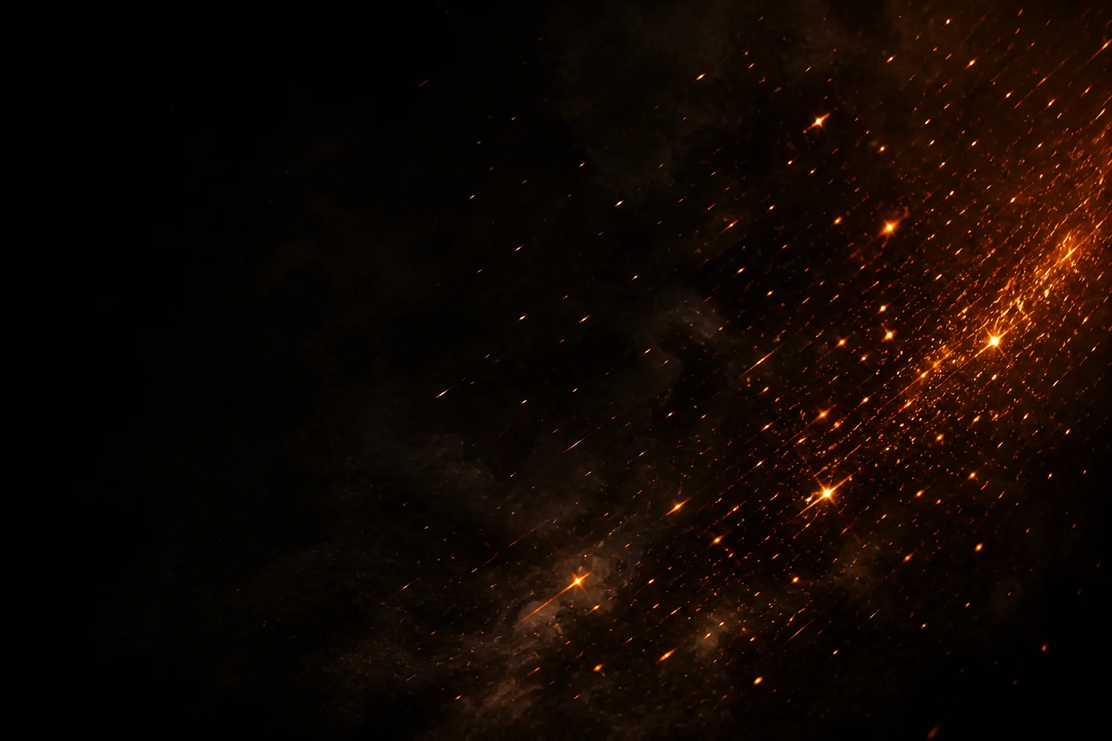
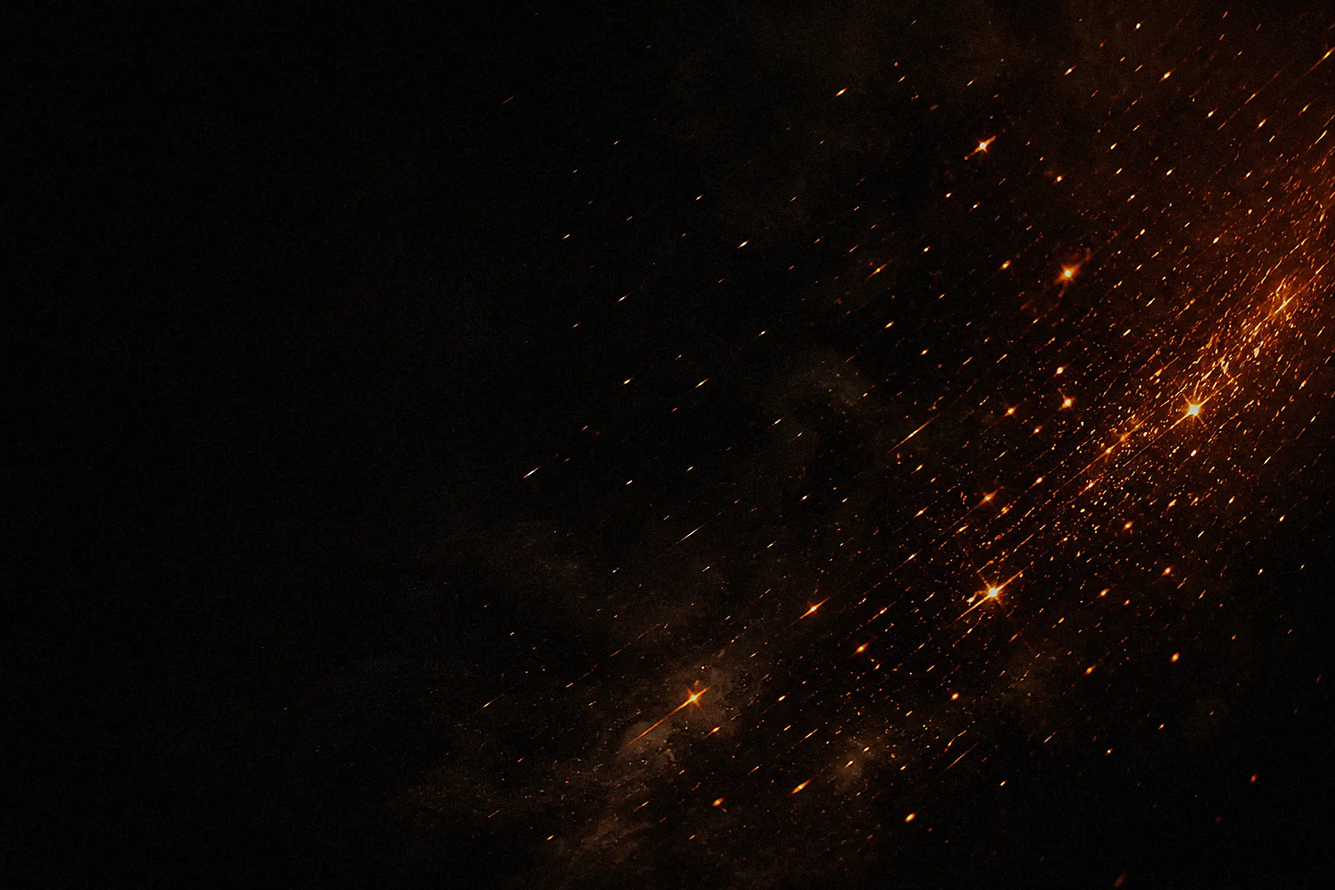
Fix hero key art: sharper and calmer
Source art is only 1536px, so upscale with unsharp mask and fine grain
(masks softness, adds film texture), darken one stop and extend the text
scrim across the full width so the art recedes behind the copy. Ship a
separate 1280px mobile variant with media-scoped preloads.

diff --git a/th/index.html b/th/index.html
@@ -55,7 +55,8 @@
 <link rel="alternate" hreflang="he" href="https://sparkfallgames.com/he/">
 <link rel="alternate" hreflang="x-default" href="https://sparkfallgames.com/">
 <script type="application/ld+json">{"@context": "https://schema.org", "@type": "Organization", "name": "Sparkfall Games", "url": "https://sparkfallgames.com", "email": "support@sparkfallgames.com", "description": "Sparkfall Games คือสตูดิโออินดี้คนเดียวที่สร้างเกมสนุก ๆ และเครื่องมือ iOS ที่ซื่อสัตย์และเป็นส่วนตัว ไม่มีบัญชี ไม่มีเซิร์ฟเวอร์ ไม่มีการติดตาม"}</script>
-<link rel="preload" as="image" href="/assets/img/keyart-dark.webp" fetchpriority="high">
+<link rel="preload" as="image" href="/assets/img/keyart-dark.webp" media="(min-width:701px)" fetchpriority="high">
+<link rel="preload" as="image" href="/assets/img/keyart-dark-m.webp" media="(max-width:700px)" fetchpriority="high">
 <link rel="stylesheet" href="/assets/site.css">
 <script defer src="/assets/site.js"></script>
 </head>

diff --git a/hi/index.html b/hi/index.html
@@ -55,7 +55,8 @@
 <link rel="alternate" hreflang="he" href="https://sparkfallgames.com/he/">
 <link rel="alternate" hreflang="x-default" href="https://sparkfallgames.com/">
 <script type="application/ld+json">{"@context": "https://schema.org", "@type": "Organization", "name": "Sparkfall Games", "url": "https://sparkfallgames.com", "email": "support@sparkfallgames.com", "description": "Sparkfall Games एक व्यक्ति का इंडी स्टूडियो है जो मज़ेदार गेम्स और ईमानदार, निजी iOS टूल बनाता है। कोई खाता नहीं, कोई सर्वर नहीं, कोई ट्रैकिंग नहीं।"}</script>
-<link rel="preload" as="image" href="/assets/img/keyart-dark.webp" fetchpriority="high">
+<link rel="preload" as="image" href="/assets/img/keyart-dark.webp" media="(min-width:701px)" fetchpriority="high">
+<link rel="preload" as="image" href="/assets/img/keyart-dark-m.webp" media="(max-width:700px)" fetchpriority="high">
 <link rel="stylesheet" href="/assets/site.css">
 <script defer src="/assets/site.js"></script>
 </head>

diff --git a/el/index.html b/el/index.html
@@ -55,7 +55,8 @@
 <link rel="alternate" hreflang="he" href="https://sparkfallgames.com/he/">
 <link rel="alternate" hreflang="x-default" href="https://sparkfallgames.com/">
 <script type="application/ld+json">{"@context": "https://schema.org", "@type": "Organization", "name": "Sparkfall Games", "url": "https://sparkfallgames.com", "email": "support@sparkfallgames.com", "description": "Η Sparkfall Games είναι ένα indie στούντιο ενός ατόμου που φτιάχνει παιχνιδιάρικα παιχνίδια και έντιμα, ιδιωτικά εργαλεία iOS. Χωρίς λογαριασμούς, χωρίς διακομιστές, χωρίς παρακολούθηση."}</script>
-<link rel="preload" as="image" href="/assets/img/keyart-dark.webp" fetchpriority="high">
+<link rel="preload" as="image" href="/assets/img/keyart-dark.webp" media="(min-width:701px)" fetchpriority="high">
+<link rel="preload" as="image" href="/assets/img/keyart-dark-m.webp" media="(max-width:700px)" fetchpriority="high">
 <link rel="stylesheet" href="/assets/site.css">
 <script defer src="/assets/site.js"></script>
 </head>

diff --git a/uk/index.html b/uk/index.html
@@ -55,7 +55,8 @@
 <link rel="alternate" hreflang="he" href="https://sparkfallgames.com/he/">
 <link rel="alternate" hreflang="x-default" href="https://sparkfallgames.com/">
 <script type="application/ld+json">{"@context": "https://schema.org", "@type": "Organization", "name": "Sparkfall Games", "url": "https://sparkfallgames.com", "email": "support@sparkfallgames.com", "description": "Sparkfall Games — інді-студія однієї людини, що створює захопливі ігри та чесні приватні інструменти для iOS. Без облікових записів, без серверів, без стеження."}</script>
-<link rel="preload" as="image" href="/assets/img/keyart-dark.webp" fetchpriority="high">
+<link rel="preload" as="image" href="/assets/img/keyart-dark.webp" media="(min-width:701px)" fetchpriority="high">
+<link rel="preload" as="image" href="/assets/img/keyart-dark-m.webp" media="(max-width:700px)" fetchpriority="high">
 <link rel="stylesheet" href="/assets/site.css">
 <script defer src="/assets/site.js"></script>
 </head>

diff --git a/ru/index.html b/ru/index.html
@@ -55,7 +55,8 @@
 <link rel="alternate" hreflang="he" href="https://sparkfallgames.com/he/">
 <link rel="alternate" hreflang="x-default" href="https://sparkfallgames.com/">
 <script type="application/ld+json">{"@context": "https://schema.org", "@type": "Organization", "name": "Sparkfall Games", "url": "https://sparkfallgames.com", "email": "support@sparkfallgames.com", "description": "Sparkfall Games — инди-студия одного человека, создающая увлекательные игры и честные приватные инструменты для iOS. Без аккаунтов, без серверов, без слежки."}</script>
-<link rel="preload" as="image" href="/assets/img/keyart-dark.webp" fetchpriority="high">
+<link rel="preload" as="image" href="/assets/img/keyart-dark.webp" media="(min-width:701px)" fetchpriority="high">
+<link rel="preload" as="image" href="/assets/img/keyart-dark-m.webp" media="(max-width:700px)" fetchpriority="high">
 <link rel="stylesheet" href="/assets/site.css">
 <script defer src="/assets/site.js"></script>
 </head>

diff --git a/ja/index.html b/ja/index.html
@@ -55,7 +55,8 @@
 <link rel="alternate" hreflang="he" href="https://sparkfallgames.com/he/">
 <link rel="alternate" hreflang="x-default" href="https://sparkfallgames.com/">
 <script type="application/ld+json">{"@context": "https://schema.org", "@type": "Organization", "name": "Sparkfall Games", "url": "https://sparkfallgames.com", "email": "support@sparkfallgames.com", "description": "Sparkfall Games は、遊び心のあるゲームと誠実でプライベートな iOS ツールを作るひとりのインディースタジオです。アカウント不要、サーバーなし、トラッキングなし。"}</script>
-<link rel="preload" as="image" href="/assets/img/keyart-dark.webp" fetchpriority="high">
+<link rel="preload" as="image" href="/assets/img/keyart-dark.webp" media="(min-width:701px)" fetchpriority="high">
+<link rel="preload" as="image" href="/assets/img/keyart-dark-m.webp" media="(max-width:700px)" fetchpriority="high">
 <link rel="stylesheet" href="/assets/site.css">
 <script defer src="/assets/site.js"></script>
 </head>

diff --git a/ar/index.html b/ar/index.html
@@ -55,7 +55,8 @@
 <link rel="alternate" hreflang="he" href="https://sparkfallgames.com/he/">
 <link rel="alternate" hreflang="x-default" href="https://sparkfallgames.com/">
 <script type="application/ld+json">{"@context": "https://schema.org", "@type": "Organization", "name": "Sparkfall Games", "url": "https://sparkfallgames.com", "email": "support@sparkfallgames.com", "description": "Sparkfall Games استوديو مستقل من شخص واحد يصنع ألعابًا ممتعة وأدوات iOS صادقة تحترم الخصوصية. بلا حسابات، بلا خوادم، بلا تتبّع."}</script>
-<link rel="preload" as="image" href="/assets/img/keyart-dark.webp" fetchpriority="high">
+<link rel="preload" as="image" href="/assets/img/keyart-dark.webp" media="(min-width:701px)" fetchpriority="high">
+<link rel="preload" as="image" href="/assets/img/keyart-dark-m.webp" media="(max-width:700px)" fetchpriority="high">
 <link rel="stylesheet" href="/assets/site.css">
 <script defer src="/assets/site.js"></script>
 </head>

diff --git a/he/index.html b/he/index.html
@@ -55,7 +55,8 @@
 <link rel="alternate" hreflang="he" href="https://sparkfallgames.com/he/">
 <link rel="alternate" hreflang="x-default" href="https://sparkfallgames.com/">
 <script type="application/ld+json">{"@context": "https://schema.org", "@type": "Organization", "name": "Sparkfall Games", "url": "https://sparkfallgames.com", "email": "support@sparkfallgames.com", "description": "Sparkfall Games הוא סטודיו אינדי של אדם אחד שיוצר משחקים כיפיים וכלי iOS הוגנים ופרטיים. בלי חשבונות, בלי שרתים, בלי מעקב."}</script>
-<link rel="preload" as="image" href="/assets/img/keyart-dark.webp" fetchpriority="high">
+<link rel="preload" as="image" href="/assets/img/keyart-dark.webp" media="(min-width:701px)" fetchpriority="high">
+<link rel="preload" as="image" href="/assets/img/keyart-dark-m.webp" media="(max-width:700px)" fetchpriority="high">
 <link rel="stylesheet" href="/assets/site.css">
 <script defer src="/assets/site.js"></script>
 </head>

diff --git a/ko/index.html b/ko/index.html
@@ -55,7 +55,8 @@
 <link rel="alternate" hreflang="he" href="https://sparkfallgames.com/he/">
 <link rel="alternate" hreflang="x-default" href="https://sparkfallgames.com/">
 <script type="application/ld+json">{"@context": "https://schema.org", "@type": "Organization", "name": "Sparkfall Games", "url": "https://sparkfallgames.com", "email": "support@sparkfallgames.com", "description": "Sparkfall Games는 재미있는 게임과 정직하고 프라이버시를 지키는 iOS 도구를 만드는 1인 인디 스튜디오입니다. 계정 없음, 서버 없음, 추적 없음."}</script>
-<link rel="preload" as="image" href="/assets/img/keyart-dark.webp" fetchpriority="high">
+<link rel="preload" as="image" href="/assets/img/keyart-dark.webp" media="(min-width:701px)" fetchpriority="high">
+<link rel="preload" as="image" href="/assets/img/keyart-dark-m.webp" media="(max-width:700px)" fetchpriority="high">
 <link rel="stylesheet" href="/assets/site.css">
 <script defer src="/assets/site.js"></script>
 </head>

diff --git a/assets/site.css b/assets/site.css
@@ -138,14 +138,19 @@ img { max-width: 100%; }
   background: var(--bg-deep) url("/assets/img/keyart-dark.webp") center / cover no-repeat;
 }
 
-/* 左侧压字暗部 + 底部融入页面底色 */
+/* 手机走小图（1280 版，省 130KB+） */
+@media (max-width: 700px) {
+  .hero-bg { background-image: url("/assets/img/keyart-dark-m.webp"); }
+}
+
+/* 分层扫暗：左侧压字暗部渐弱延伸到右缘（背景让位文字，全域降一档）+ 底部融入页面底色 */
 .hero-bg::after {
   content: "";
   position: absolute;
   inset: 0;
   background:
-    linear-gradient(90deg, rgba(5, 4, 3, 0.88) 0%, rgba(5, 4, 3, 0.55) 44%, rgba(5, 4, 3, 0) 75%),
-    linear-gradient(0deg, var(--bg) 0%, rgba(12, 10, 9, 0) 22%);
+    linear-gradient(90deg, rgba(5, 4, 3, 0.92) 0%, rgba(5, 4, 3, 0.62) 42%, rgba(5, 4, 3, 0.28) 72%, rgba(5, 4, 3, 0.14) 100%),
+    linear-gradient(0deg, var(--bg) 0%, rgba(12, 10, 9, 0) 24%);
 }
 
 /* RTL：整层水平镜像（key art 火花与压字暗部一起换边） */

diff --git a/ro/index.html b/ro/index.html
@@ -55,7 +55,8 @@
 <link rel="alternate" hreflang="he" href="https://sparkfallgames.com/he/">
 <link rel="alternate" hreflang="x-default" href="https://sparkfallgames.com/">
 <script type="application/ld+json">{"@context": "https://schema.org", "@type": "Organization", "name": "Sparkfall Games", "url": "https://sparkfallgames.com", "email": "support@sparkfallgames.com", "description": "Sparkfall Games este un studio indie dintr-o singură persoană care creează jocuri antrenante și instrumente iOS oneste și private. Fără conturi, fără servere, fără urmărire."}</script>
-<link rel="preload" as="image" href="/assets/img/keyart-dark.webp" fetchpriority="high">
+<link rel="preload" as="image" href="/assets/img/keyart-dark.webp" media="(min-width:701px)" fetchpriority="high">
+<link rel="preload" as="image" href="/assets/img/keyart-dark-m.webp" media="(max-width:700px)" fetchpriority="high">
 <link rel="stylesheet" href="/assets/site.css">
 <script defer src="/assets/site.js"></script>
 </head>

diff --git a/vi/index.html b/vi/index.html
@@ -55,7 +55,8 @@
 <link rel="alternate" hreflang="he" href="https://sparkfallgames.com/he/">
 <link rel="alternate" hreflang="x-default" href="https://sparkfallgames.com/">
 <script type="application/ld+json">{"@context": "https://schema.org", "@type": "Organization", "name": "Sparkfall Games", "url": "https://sparkfallgames.com", "email": "support@sparkfallgames.com", "description": "Sparkfall Games là studio indie một người, tạo ra những game vui nhộn và công cụ iOS trung thực, riêng tư. Không tài khoản, không máy chủ, không theo dõi."}</script>
-<link rel="preload" as="image" href="/assets/img/keyart-dark.webp" fetchpriority="high">
+<link rel="preload" as="image" href="/assets/img/keyart-dark.webp" media="(min-width:701px)" fetchpriority="high">
+<link rel="preload" as="image" href="/assets/img/keyart-dark-m.webp" media="(max-width:700px)" fetchpriority="high">
 <link rel="stylesheet" href="/assets/site.css">
 <script defer src="/assets/site.js"></script>
 </head>
